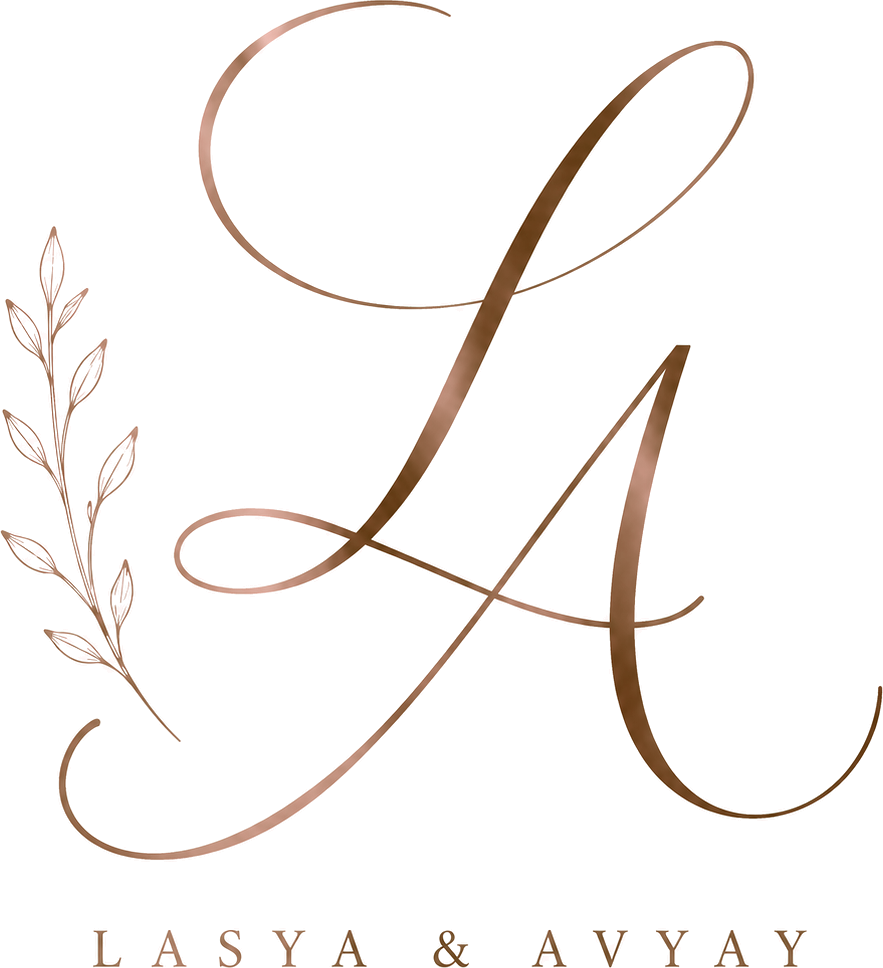
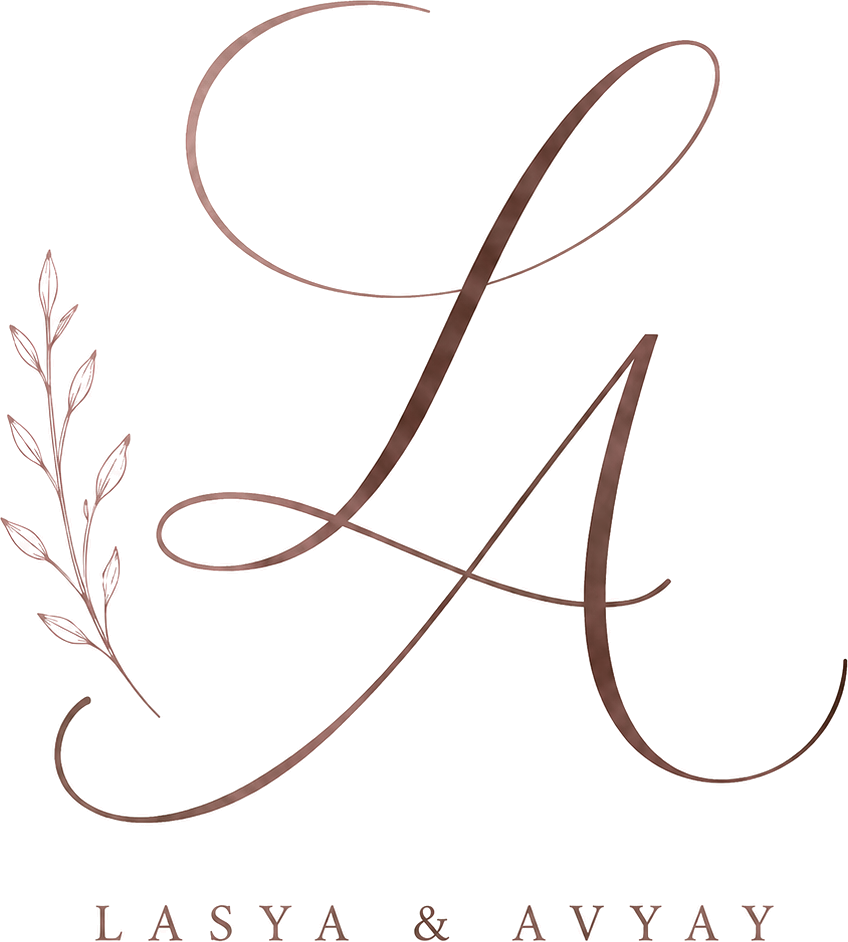
Swap to the finer-lined monogram
Same treatment as before — cream keyed into an alpha channel, background
un-mixed from the antialiased edges, cropped to the ink. 848x942 and 169KB,
about 3.4x the display width so it renders natively on a retina screen.

diff --git a/Elegant Invitation Journey/src/components/wedding/Envelope.tsx b/Elegant Invitation Journey/src/components/wedding/Envelope.tsx
@@ -82,8 +82,8 @@ export function Envelope({ onOpened }: { onOpened: () => void }) {
         <img
           src={monogram}
           alt={`${COUPLE.bride} and ${COUPLE.groom}`}
-          width={883}
-          height={968}
+          width={848}
+          height={942}
           className="h-auto w-[64%]"
           // No pool of light behind it and no contrast filter: the artwork is
           // high enough resolution to hold its own against the frost, and both
